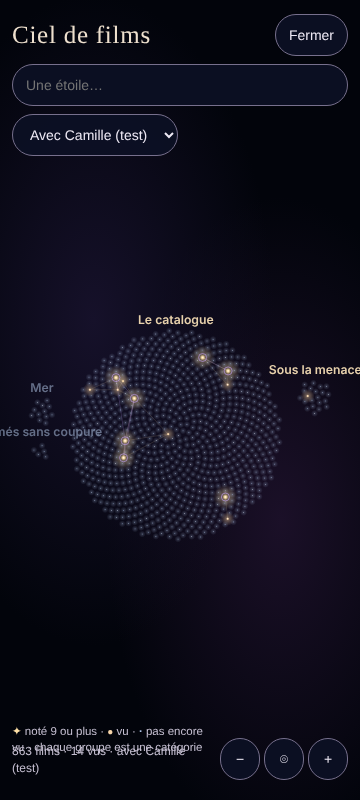
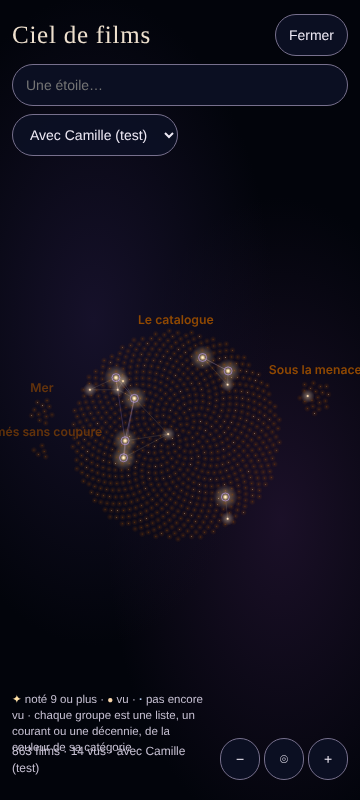
Ciné-club : idées du 22 octobre au soir
- Ciel : plus de « Autres films » (listes, courants, décennies), couleurs
  par catégorie, noms qui ne se chevauchent pas
- Flèches ← → : retour exact à l'endroit de la page (position notée en continu,
  restauration manuelle du défilement)
- Bouton 🎞 des images à côté du titre du film
- Défilement : boutons et panneaux flottants sur leur propre calque, effets
  néon en pause pendant le défilement
- « Mes idées pour le site » : modifier une note, brouillon conservé, panneau
  réductible pour voir le site en écrivant, dictée vocale si le navigateur la
  permet

Claude-Session: https://claude.ai/code/session_01DcDkoDheBLBWj8TP5JACWu

Changed region(s): [[0.0, 0.375, 1.0, 0.6875], [0.0306, 0.8438, 0.5806, 0.9375]]

diff --git a/carnet-de-films/index.html b/carnet-de-films/index.html
@@ -443,6 +443,11 @@ a.shl{text-decoration:none;display:inline-block;}
 .totop{position:fixed;right:10px;bottom:calc(32vh + env(safe-area-inset-bottom,0px));z-index:6;height:44px;border-radius:99px;padding:0 16px;
   border:2px solid var(--k-b-C8963A);background:var(--paper);color:var(--ink);font:600 14.5px/1 var(--font);cursor:pointer;box-shadow:0 3px 14px rgba(44,34,48,.3);}
 .totop[hidden]{display:none;}
+/* Boutons et panneaux flottants sur leur propre calque : ils restent collés à l'écran pendant le défilement. */
+.totop,.navb,.nt-btn,.nt-panel,.envbar,.sheet{transform:translateZ(0);backface-visibility:hidden;will-change:transform;}
+.navb .totop{transform:none;will-change:auto;}
+html.scrolling *,html.scrolling *::before,html.scrolling *::after{animation-play-state:paused!important;}
+html.scrolling .nbulbs i,html.scrolling .nl{transition:none!important;}
 html.qon #main{min-height:calc(100vh - 60px);align-content:start;}
 html.navon .wrap{padding-bottom:64px;}
 .navb{position:fixed;left:10px;bottom:calc(14px + env(safe-area-inset-bottom,0px));z-index:6;display:flex;gap:8px;}
@@ -955,13 +960,24 @@ html.aff-calme .ccg-on{transition:none;}
 .nt-panel{position:fixed;right:10px;left:10px;bottom:12px;max-width:440px;margin-left:auto;max-height:70vh;overflow:auto;z-index:41;display:grid;gap:8px;
   background:var(--paper);color:var(--ink);border:2px solid var(--k-b-C8963A);border-radius:16px;padding:12px 14px;box-shadow:0 8px 30px rgba(44,34,48,.3);}
 .nt-h{display:flex;justify-content:space-between;align-items:center;font-size:16px;}
+#ntPanel{max-height:46vh;}
+#ntPanel.mini{max-height:none;gap:6px;padding:8px 12px;}
+#ntPanel{justify-items:stretch;}
+#ntPanel textarea{width:100%;box-sizing:border-box;}
+.nt-l li .nt-b{margin-top:6px;}
+.nt-ed{display:block!important;}
+.nt-ed textarea{width:100%;box-sizing:border-box;}
+.nt-mic[aria-pressed="true"]{border-color:var(--vu);color:var(--vu);}
 .nt-x{border:0;background:transparent;color:var(--muted);font-size:18px;cursor:pointer;padding:4px 8px;}
 .nt-panel textarea{font:400 16px/1.35 var(--font);color:var(--ink);background:var(--paper);border:1.5px solid var(--line);border-radius:10px;padding:9px 11px;resize:vertical;}
 .nt-b{display:flex;gap:8px;flex-wrap:wrap;}
 .nt-l{margin:0;padding-left:22px;display:grid;gap:6px;font-size:14.5px;}
 .nt-l li span{display:inline;}
 .nt-l small{display:block;color:var(--muted);font-size:12px;}
-.nt-l li{position:relative;padding-right:28px;}
+.nt-l li{position:relative;padding-right:62px;}
+.nt-l li button[data-ntedit]{right:30px;}
+.nt-l li.nt-ed{padding-right:0;}
+.nt-l li.nt-ed button{position:static;font-size:14px;}
 .nt-l li button{position:absolute;right:0;top:0;border:0;background:transparent;color:var(--muted);cursor:pointer;font-size:14px;padding:2px 6px;}
 .nt-clear{justify-self:start;border:1.5px dashed var(--line);background:transparent;color:var(--muted);border-radius:99px;padding:7px 12px;font:600 13px/1 var(--font);cursor:pointer;}
 html.aff-calme .nt-btn{box-shadow:none;}
@@ -1001,6 +1017,8 @@ section[data-auto="classement"] .stars button{transform:scale(.88);}
 .ed-cols button{font-size:13px;padding:0 10px;}
 html.ed-on .wrap{padding-bottom:65vh;}
 .fimg{margin-top:10px;}
+.timg{flex:none;min-width:36px;height:32px;padding:0 8px;border:1.5px solid var(--line);border-radius:99px;background:var(--paper);color:var(--ink);font-size:15px;line-height:1;cursor:pointer;}
+.timg[aria-expanded="true"]{border-color:var(--gold);}
 .fimg-g{display:grid;grid-template-columns:repeat(2,minmax(0,1fr));gap:6px;}
 .fimg-g a{display:block;aspect-ratio:16/9;border-radius:10px;overflow:hidden;background:var(--line);}
 .fimg-g img{width:100%;height:100%;object-fit:cover;display:block;}
@@ -1371,7 +1389,7 @@ html.sky-on #rsheet{z-index:50;}
 <section class="sky" id="sky" role="dialog" aria-modal="true" aria-labelledby="skyTitle" hidden>
   <canvas id="skyCanvas" tabindex="0" role="img" aria-label="Ciel de films. La recherche permet de choisir une étoile ; les flèches déplacent le ciel et les boutons changent le zoom."></canvas>
   <div class="sky-tools"><h2 id="skyTitle">Ciel de films</h2><div class="sky-search"><input type="search" id="skySearch" placeholder="Une étoile…" aria-label="Chercher un film dans le ciel" autocomplete="off" aria-controls="skyResults"><div class="sky-results" id="skyResults" hidden></div></div><select id="skyMember" aria-label="Superposer le ciel d'un membre"><option value="">Mon ciel seul</option></select><button type="button" id="skyClose" aria-label="Fermer le ciel">Fermer</button></div>
-  <div class="sky-caption" id="skyCaption" role="status">Le ciel se dessine…</div><p class="sky-legend"><span class="sl-b">✦</span> noté 9 ou plus · <span class="sl-v">●</span> vu · <span class="sl-p">·</span> pas encore vu · chaque groupe est une catégorie</p><div class="sky-label" id="skyLabel" hidden></div>
+  <div class="sky-caption" id="skyCaption" role="status">Le ciel se dessine…</div><p class="sky-legend"><span class="sl-b">✦</span> noté 9 ou plus · <span class="sl-v">●</span> vu · <span class="sl-p">·</span> pas encore vu · chaque groupe est une liste, un courant ou une décennie, de la couleur de sa catégorie</p><div class="sky-label" id="skyLabel" hidden></div>
   <div class="sky-zoom"><button type="button" id="skyOut" aria-label="Éloigner le ciel">−</button><button type="button" id="skyReset" aria-label="Retrouver tout le ciel">⌾</button><button type="button" id="skyIn" aria-label="Rapprocher le ciel">+</button></div>
 </section>
 <div class="toast" id="toast" role="status" aria-live="polite" hidden></div>
@@ -2716,7 +2734,8 @@ html.sky-on #rsheet{z-index:50;}
     var detailId = "fiche-" + encodeURIComponent(mk), themes = Array.isArray(f.th) ? f.th.filter(Boolean) : [];
     var avertissements = Array.isArray(f.av) ? f.av.filter(Boolean).join(" · ") : String(f.av || "").trim();
     var av = avertissements ? '<details class="fiche-av"><summary>Contenus sensibles</summary><p>' + esc(avertissements) + '</p></details>' : "";
-    return '<div class="info"><div class="th"><div class="t">' + esc(f.t) + '</div>' + est + (ro ? '<span class="ro">' + ro + '</span>' : "") +
+    return '<div class="info"><div class="th"><div class="t">' + esc(f.t) + '</div>' +
+      '<button type="button" class="timg" data-img="' + esc(f.id) + '" aria-expanded="' + !!IMG_OPEN[f.id] + '" aria-label="Images du film ' + esc(f.t) + '" title="Images du film">🎞</button>' + est + (ro ? '<span class="ro">' + ro + '</span>' : "") +
       '<button type="button" class="more" data-more="' + esc(mk) + '" aria-expanded="' + mo + '" aria-controls="' + esc(detailId) + '" aria-label="Détails de ' + esc(f.t) + '">' + (mo ? "moins" : "plus…") + '</button></div>' +
       (!cmp && meta.length ? '<div class="m">' + meta.join(" · ") + '</div>' : "") + (!cmp ? av : "") +
       // Le résumé reste visible sur toutes les fiches ; seule « Mes films notés » le replie derrière « plus… ».
@@ -2731,7 +2750,6 @@ html.sky-on #rsheet{z-index:50;}
       '<div class="nv">' + nv + '</div></div>' +
       '<div class="acts"><button type="button" class="lst" data-l="1" aria-pressed="' + !!LISTE[f.id] + '">' + (LISTE[f.id] ? "✓ Ma liste" : "+ Ma liste") + '</button>' + plb +
       '<button type="button" class="fsh ico" data-fshare="1" aria-label="Partager ' + esc(f.t) + '" title="Partager">↗</button>' +
-      '<button type="button" class="fsh ico" data-img="' + esc(f.id) + '" aria-expanded="' + !!IMG_OPEN[f.id] + '" aria-label="Images du film ' + esc(f.t) + '" title="Images du film">🎞</button>' +
       '<button type="button" class="cmb" data-com="1" aria-expanded="' + (OPEN_COM === f.sid + "|" + f.id) + '" aria-label="Commenter ' + esc(f.t) + '" title="Commenter">💬</button></div></div>' + plc + comForm(f) + (IMG_OPEN[f.id] ? imgBoxHtml(f.id) : "");
   }
 
@@ -3177,6 +3195,24 @@ html.sky-on #rsheet{z-index:50;}
   }
   // Flèches ← → : chaque changement d'affichage (catégorie, liste, recherche, filtre) devient une étape de l'historique.
   var NAV = { i:0, max:0, busy:false, t:0, q:false };
+  try { if ("scrollRestoration" in history) history.scrollRestoration = "manual"; } catch (e) {}
+  // La position dans la page est notée en continu dans l'étape courante : les flèches y ramènent exactement.
+  var NAV_Y = 0;
+  // La position juste avant un toucher ou une frappe : c'est elle qu'on retrouvera, même si l'affichage change ensuite.
+  ["pointerdown", "keydown"].forEach(function(t){ document.addEventListener(t, function(ev){
+    if (NAV.busy || (t === "keydown" && ev.target && /^(INPUT|TEXTAREA|SELECT)$/.test(ev.target.tagName))) return;
+    if (t === "pointerdown" && ev.target && ev.target.closest && ev.target.closest("#navb")) return;
+    NAV.preY = window.pageYOffset; }, true); });
+  window.addEventListener("scroll", function(){ if (NAV.busy) return; clearTimeout(NAV_Y); NAV_Y = setTimeout(function(){
+    var st = history.state; if (!st || !st.cc || NAV.busy) return; try { history.replaceState(Object.assign({}, st, { y:window.pageYOffset }), ""); } catch (e) {} }, 150); }, { passive:true });
+  function navScroll(y){
+    var tries = 0;
+    (function step(){
+      window.scrollTo(0, y); lzFillNow(); window.scrollTo(0, y);
+      if ((Math.abs(window.pageYOffset - y) > 2 || tries < 3) && tries++ < 20) { requestAnimationFrame(step); return; }
+      NAV.busy = false;
+    })();
+  }
   function navNow(){ return { cc:1, show:SHOW ? JSON.parse(JSON.stringify(SHOW)) : null, q:$("q").value, f:filter, tab:TAB }; }
   function navSig(x){ return JSON.stringify([x.show, x.q, x.f, x.tab]); }
   function navPaint(){
@@ -3194,7 +3230,7 @@ html.sky-on #rsheet{z-index:50;}
       // Pendant qu'on tape une recherche, on remplace l'étape au lieu d'en empiler une par lettre.
       if (typing && NAV.q && now - NAV.t < 1500) { st.i = NAV.i; st.max = NAV.max = NAV.i; st.y = cur.y; history.replaceState(st, ""); }
       else {
-        history.replaceState(Object.assign({}, cur, { y:window.pageYOffset }), "");
+        history.replaceState(Object.assign({}, cur, { y:NAV.preY != null ? NAV.preY : (cur.y || 0) }), "");
         st.i = NAV.i = NAV.i + 1; st.max = NAV.max = NAV.i; st.y = 0; history.pushState(st, "");
       }
     } catch (e) {}
@@ -3211,7 +3247,7 @@ html.sky-on #rsheet{z-index:50;}
     document.documentElement.classList.toggle("qon", !!query);
     document.querySelectorAll("#filters .chip").forEach(function(x){ x.setAttribute("aria-pressed", x.dataset.f === filter ? "true" : "false"); });
     renderAll();
-    var y = +st.y || 0; requestAnimationFrame(function(){ window.scrollTo({ top:y }); if (lzFillNow()) window.scrollTo({ top:y }); NAV.busy = false; });
+    clearTimeout(NAV_Y); navScroll(+st.y || 0);
     navPaint();
   });
   $("navBack").addEventListener("click", function(){ if (NAV.i > 0) history.back(); });
@@ -3357,14 +3393,30 @@ html.sky-on #rsheet{z-index:50;}
     var q = $("q") && $("q").value ? " · recherche « " + $("q").value.slice(0, 40) + " »" : "";
     return (TAB ? "onglet " + TAB : "accueil") + q + " · " + amb + " · " + window.innerWidth + " px";
   }
+  // Le panneau reste petit (ou se réduit à une ligne) pour garder le site visible pendant qu'on écrit ; la dictée vocale s'ajoute si le navigateur la connaît.
+  var NT_DRAFT = "", NT_EDIT = -1, NT_MINI = false, NT_REC = null, SR = window.SpeechRecognition || window.webkitSpeechRecognition;
   function notesHtml(){
-    return '<div class="nt-h"><b>Mes idées pour le site</b><button type="button" class="nt-x" data-ntclose="1" aria-label="Fermer">✕</button></div>' +
-      '<textarea id="ntTxt" rows="3" maxlength="1000" placeholder="Une idée, un défaut, une envie…"></textarea>' +
-      '<div class="nt-b"><button type="button" class="plf-ok" data-ntadd="1">Noter</button>' +
-      '<button type="button" class="plf-no" data-ntcopy="1">📋 Tout copier</button></div>' +
-      (NOTES.length ? '<ol class="nt-l">' + NOTES.map(function(n, i){
-        return '<li><span>' + esc(n.t) + '<small>' + esc(fdate(n.d) || "") + ' · ' + esc(n.w || "") + '</small></span><button type="button" data-ntdel="' + i + '" aria-label="Effacer cette note">✕</button></li>';
+    var mic = SR ? '<button type="button" class="plf-no nt-mic" data-ntmic="1" aria-pressed="' + !!NT_REC + '">' + (NT_REC ? "⏹ Arrêter la dictée" : "🎤 Dicter") + '</button>' : "";
+    return '<div class="nt-h"><b>Mes idées pour le site</b><span><button type="button" class="nt-x" data-ntmini="1" aria-label="' + (NT_MINI ? "Agrandir" : "Réduire") + '" title="' + (NT_MINI ? "Agrandir" : "Réduire") + '">' + (NT_MINI ? "▴" : "▾") + '</button><button type="button" class="nt-x" data-ntclose="1" aria-label="Fermer">✕</button></span></div>' +
+      '<textarea id="ntTxt" rows="' + (NT_MINI ? 2 : 3) + '" maxlength="1000" placeholder="Une idée, un défaut, une envie…">' + esc(NT_DRAFT) + '</textarea>' +
+      '<div class="nt-b"><button type="button" class="plf-ok" data-ntadd="1">Noter</button>' + mic +
+      (NT_MINI ? "" : '<button type="button" class="plf-no" data-ntcopy="1">📋 Tout copier</button>') + '</div>' +
+      (NT_MINI ? "" : NOTES.length ? '<ol class="nt-l">' + NOTES.map(function(n, i){
+        if (i === NT_EDIT) return '<li class="nt-ed"><textarea id="ntEd" rows="3" maxlength="1000" aria-label="Modifier cette note">' + esc(n.t) + '</textarea><span class="nt-b"><button type="button" class="plf-ok" data-ntsave="' + i + '">Enregistrer</button><button type="button" class="plf-no" data-ntcancel="1">Annuler</button></span></li>';
+        return '<li><span>' + esc(n.t) + '<small>' + esc(fdate(n.d) || "") + ' · ' + esc(n.w || "") + '</small></span><button type="button" data-ntedit="' + i + '" aria-label="Modifier cette note">✎</button><button type="button" data-ntdel="' + i + '" aria-label="Effacer cette note">✕</button></li>';
       }).join("") + '</ol><button type="button" class="nt-clear" data-ntclear="1">Tout effacer (après l\'envoi à Claude)</button>' : '<p class="id-n">Rien de noté pour l\'instant.</p>');
+  }
+  function ntPaint(focus){ var p = $("ntPanel"); if (!p) return; p.classList.toggle("mini", NT_MINI); p.innerHTML = notesHtml(); var ta = $(focus || "ntTxt"); if (ta && focus !== false) { ta.focus({ preventScroll:true }); try { ta.setSelectionRange(ta.value.length, ta.value.length); } catch (e) {} } }
+  function ntMicStop(){ if (NT_REC) { try { NT_REC.stop(); } catch (e) {} NT_REC = null; } }
+  function ntMic(){
+    if (NT_REC) { ntMicStop(); ntPaint(); return; }
+    var r = new SR(), base = NT_DRAFT ? NT_DRAFT.replace(/\s*$/, " ") : "";
+    r.lang = "fr-FR"; r.continuous = true; r.interimResults = true;
+    r.onresult = function(e){ var txt = ""; for (var i = 0; i < e.results.length; i++) txt += e.results[i][0].transcript; NT_DRAFT = (base + txt).slice(0, 1000); var ta = $("ntTxt"); if (ta) ta.value = NT_DRAFT; };
+    r.onend = function(){ if (NT_REC === r) { NT_REC = null; ntPaint(false); } };
+    r.onerror = function(){ if (NT_REC === r) { NT_REC = null; ntPaint(false); setStatus("La dictée n'a pas pu démarrer : utilise le micro du clavier.", true); } };
+    try { r.start(); NT_REC = r; } catch (e) { NT_REC = null; }
+    ntPaint(false);
   }
   function notesSync(){
     var b = $("ntBtn"), on = !!(window.CC && CC.admin);
@@ -3379,25 +3431,32 @@ html.sky-on #rsheet{z-index:50;}
   document.addEventListener("click", function(ev){
     var t = ev.target; if (!t.closest) return;
     var p = $("ntPanel");
-    if (t.closest("#ntBtn")) { if (p.hidden) { NT_CLEAR = false; p.innerHTML = notesHtml(); p.hidden = false; var ta = $("ntTxt"); if (ta) ta.focus(); } else p.hidden = true; return; }
+    if (t.closest("#ntBtn")) { if (p.hidden) { NT_CLEAR = false; NT_EDIT = -1; p.hidden = false; ntPaint(); } else { ntMicStop(); p.hidden = true; } return; }
     if (!t.closest("#ntPanel")) return;
-    if (t.closest("[data-ntclose]")) { p.hidden = true; return; }
+    if (t.closest("[data-ntclose]")) { ntMicStop(); p.hidden = true; return; }
+    if (t.closest("[data-ntmini]")) { NT_MINI = !NT_MINI; ntPaint(false); return; }
+    if (t.closest("[data-ntmic]")) { ntMic(); return; }
     if (t.closest("[data-ntadd]")) {
+      ntMicStop();
       var v = ($("ntTxt").value || "").trim(); if (!v) { $("ntTxt").focus(); return; }
-      NOTES.push({ t:v.slice(0, 1000), d:new Date().toISOString(), w:notesWhere() }); keepNotes(); p.innerHTML = notesHtml(); $("ntTxt").focus(); return;
+      NOTES.push({ t:v.slice(0, 1000), d:new Date().toISOString(), w:notesWhere() }); keepNotes(); NT_DRAFT = ""; ntPaint(); return;
     }
-    var dl = t.closest("[data-ntdel]"); if (dl) { NOTES.splice(+dl.dataset.ntdel, 1); keepNotes(); p.innerHTML = notesHtml(); return; }
+    var ne = t.closest("[data-ntedit]"); if (ne) { NT_EDIT = +ne.dataset.ntedit; ntPaint("ntEd"); return; }
+    if (t.closest("[data-ntcancel]")) { NT_EDIT = -1; ntPaint(false); return; }
+    var ns = t.closest("[data-ntsave]"); if (ns) { var i0 = +ns.dataset.ntsave, v0 = (($("ntEd") || {}).value || "").trim(); if (NOTES[i0] && v0) { NOTES[i0].t = v0.slice(0, 1000); keepNotes(); } NT_EDIT = -1; ntPaint(false); return; }
+    var dl = t.closest("[data-ntdel]"); if (dl) { NOTES.splice(+dl.dataset.ntdel, 1); keepNotes(); NT_EDIT = -1; ntPaint(false); return; }
     if (t.closest("[data-ntclear]")) {
       if (!NT_CLEAR) { NT_CLEAR = true; t.closest("[data-ntclear]").textContent = "Vraiment tout effacer ?"; return; }
-      NOTES = []; keepNotes(); NT_CLEAR = false; p.innerHTML = notesHtml(); return;
+      NOTES = []; keepNotes(); NT_CLEAR = false; ntPaint(false); return;
     }
     if (t.closest("[data-ntcopy]")) {
       var mine = NOTES.length ? "Mes idées pour le Ciné-club (" + NOTES.length + ")\n" + NOTES.map(function(n, i){ return (i + 1) + ". " + n.t + " (" + (fdate(n.d) || "") + " · " + n.w + ")"; }).join("\n") : "";
       copyText([mine, idTodo()].filter(Boolean).join("\n\n"), "vos notes et les suggestions des membres", t.closest("[data-ntcopy]"));
     }
   });
+  document.addEventListener("input", function(ev){ if (ev.target && ev.target.id === "ntTxt") NT_DRAFT = ev.target.value; });
   document.addEventListener("keydown", function(ev){
-    if (ev.key === "Escape") { var p = $("ntPanel"); if (p && !p.hidden) p.hidden = true; }
+    if (ev.key === "Escape") { var p = $("ntPanel"); if (p && !p.hidden) { ntMicStop(); p.hidden = true; } }
     if (ev.key === "Enter" && (ev.ctrlKey || ev.metaKey) && ev.target.id === "ntTxt") { var a = document.querySelector("[data-ntadd]"); if (a) a.click(); }
   });
   var QZ_Q = [
@@ -5180,7 +5239,9 @@ html.sky-on #rsheet{z-index:50;}
     renderAll(); $("q").blur(); toList();
   });
   $("q").addEventListener("input", function(){ clearTimeout(qTimer); qTimer = setTimeout(function(){ query = norm($("q").value.trim()); document.documentElement.classList.toggle("qon", !!query || document.activeElement === $("q")); renderAll(); if (query) qTop(); else toList(); }, 150); });
-  var ticking = false;
+  var ticking = false, SCR_T = 0;
+  // Pendant le défilement, les effets décoratifs se mettent en pause : le navigateur garde toute sa force pour suivre le doigt.
+  window.addEventListener("scroll", function(){ var de = document.documentElement; if (!de.classList.contains("scrolling")) de.classList.add("scrolling"); clearTimeout(SCR_T); SCR_T = setTimeout(function(){ de.classList.remove("scrolling"); }, 220); }, { passive:true });
   window.addEventListener("scroll", function(){
     if (ticking) return; ticking = true;
     requestAnimationFrame(function(){ $("totop").hidden = window.pageYOffset < 400; ticking = false; });
@@ -5464,10 +5525,26 @@ html.sky-on #rsheet{z-index:50;}
   function skyHash(s){ var h=2166136261; for(var i=0;i<s.length;i++) h=Math.imul(h^s.charCodeAt(i),16777619); return h>>>0; }
   function skyNorm(v){ var q=Math.sqrt(v.reduce(function(s,x){return s+x*x;},0))||1; return v.map(function(x){return x/q;}); }
   // Constellations : chaque liste de thèmes devient un groupe d'étoiles qui porte son nom ; un film va dans la liste la plus précise qui le contient.
+  // Constellations : d'abord les listes de thèmes, puis les autres listes (école, cours, envies…), puis le courant, et enfin la décennie : aucun film ne reste à part.
   function skyGroups(){
-    var lists=sections.filter(function(s){return s.famille==="themes"&&!s.cache&&!s.auto&&(s.films||[]).length;}).map(function(s){return {id:s.id,name:sTitre(s)||s.titre||"",ids:(s.films||[]).map(function(f){return f.id;})};});
-    var of={};lists.slice().sort(function(a,b){return a.ids.length-b.ids.length||(a.id<b.id?-1:1);}).forEach(function(g){g.ids.forEach(function(id){if(!of[id]&&films[id])of[id]=g.id;});});
-    return {lists:lists,of:of};
+    var skip={carnet:1,playlists:1,epoques:1,idees:1};
+    var lists=sections.filter(function(s){return !s.cache&&!s.auto&&!s._sugg&&!skip[s.famille]&&(s.films||[]).length;}).map(function(s){return {id:s.id,name:sTitre(s)||s.titre||"",fam:s.famille||"",pri:s.famille==="themes"?0:1,ids:(s.films||[]).map(function(f){return f.id;})};});
+    var of={};lists.slice().sort(function(a,b){return a.pri-b.pri||a.ids.length-b.ids.length||(a.id<b.id?-1:1);}).forEach(function(g){g.ids.forEach(function(id){if(!of[id]&&films[id])of[id]=g.id;});});
+    var extra={};
+    Object.keys(films).forEach(function(id){
+      if(of[id])return;var f=films[id],k;
+      if(f.mv&&MV_INFO[f.mv]){k="mv:"+f.mv;if(!extra[k])extra[k]={id:k,name:MV_INFO[f.mv].label,fam:"mouvements",ids:[]};}
+      else{var d=f.y?Math.floor(+f.y/10)*10:0;k="dec:"+(d||"x");if(!extra[k])extra[k]={id:k,name:d?(d>=2000?"Années "+d:"Années "+String(d).slice(2)):"Sans date",fam:"epoques",ids:[]};}
+      extra[k].ids.push(id);of[id]=k;
+    });
+    // Un courant trop petit rejoint sa décennie : pas de poussière isolée.
+    Object.keys(extra).forEach(function(k){var g=extra[k];if(k.indexOf("mv:")!==0||g.ids.length>=4)return;g.ids.forEach(function(id){var f=films[id],d=f.y?Math.floor(+f.y/10)*10:0,k2="dec:"+(d||"x");if(!extra[k2])extra[k2]={id:k2,name:d?(d>=2000?"Années "+d:"Années "+String(d).slice(2)):"Sans date",fam:"epoques",ids:[]};extra[k2].ids.push(id);of[id]=k2;});delete extra[k];});
+    return {lists:lists.concat(Object.keys(extra).map(function(k){return extra[k];})),of:of};
+  }
+  function skyColor(fam){
+    var f=FAM_OF[fam]||{id:fam},p=(typeof famPal==="function"&&famPal(f))||null,c=(p&&(p.ic||p.bord))||f.bord||"";
+    var dflt={themes:"#f3dcb4",mouvements:"#9fe0d2",epoques:"#a9c4ff",ecole:"#f5b8d0",cours:"#c7b3ff",envies:"#ffc28a",sante:"#b8e3a1"};
+    return /^#[0-9a-f]{6}$/i.test(c)?c:dflt[fam]||"#d9cbe6";
   }
   function skyModel(){
     var ids=Object.keys(films).sort(),G=skyGroups(),signature=ids.map(function(id){return id+"|"+(G.of[id]||"");}).join(";")+"#"+G.lists.map(function(g){return g.id+":"+g.name;}).join(",");
@@ -5475,7 +5552,7 @@ html.sky-on #rsheet{z-index:50;}
     SKY.sig=signature; ++SKY.gen; var n=ids.length;
     if(!n){ SKY.points=[]; SKY.groups=[]; skySchedule(); return; }
     var byG={},order=[];ids.forEach(function(id){var g=G.of[id]||"_";if(!byG[g]){byG[g]=[];order.push(g);}byG[g].push(id);});
-    var names={};G.lists.forEach(function(g){names[g.id]=g.name;});names._="Autres films";
+    var names={},fams={};G.lists.forEach(function(g){names[g.id]=g.name;fams[g.id]=g.fam;});names._="Autres films";
     // Les plus grandes constellations au centre, les autres en spirale autour ; les films d'un groupe en tournesol.
     order.sort(function(a,b){return (a==="_")-(b==="_")||byG[b].length-byG[a].length||(a<b?-1:1);});
     var points=[],groups=[],GA=Math.PI*(3-Math.sqrt(5)),placed=[];
@@ -5485,9 +5562,9 @@ html.sky-on #rsheet{z-index:50;}
       for(var t=0;k&&t<4000;t++){var ang=t*.37,R=t*6;cx=Math.cos(ang)*R;cy=Math.sin(ang)*R*.8;if(placed.every(function(q){return Math.hypot(q.x-cx,q.y-cy)>=q.r+r+55;}))break;}
       placed.push({x:cx,y:cy,r:r});
       list.forEach(function(id,i){var d=Math.sqrt(i+.5)*15,a=i*GA;points.push({id:id,g:g,x:cx+Math.cos(a)*d,y:cy+Math.sin(a)*d,links:[]});});
-      groups.push({id:g,name:names[g]||"",x:cx,y:cy-r-8,n:list.length});
+      groups.push({id:g,name:names[g]||"",fam:fams[g]||"",color:skyColor(fams[g]||""),x:cx,y:cy-r-8,n:list.length});
     });
-    SKY.points=points;SKY.groups=groups;SKY.byId={};SKY.grid={};points.forEach(function(p){SKY.byId[p.id]=p;var key=Math.floor(p.x/64)+","+Math.floor(p.y/64);(SKY.grid[key]=SKY.grid[key]||[]).push(p);});
+    SKY.points=points;SKY.groups=groups;SKY.gcol={};groups.forEach(function(g){SKY.gcol[g.id]=g.color;});SKY.byId={};SKY.grid={};points.forEach(function(p){SKY.byId[p.id]=p;var key=Math.floor(p.x/64)+","+Math.floor(p.y/64);(SKY.grid[key]=SKY.grid[key]||[]).push(p);});
     var minX=Infinity,maxX=-Infinity,minY=Infinity,maxY=-Infinity;points.forEach(function(p){minX=Math.min(minX,p.x);maxX=Math.max(maxX,p.x);minY=Math.min(minY,p.y);maxY=Math.max(maxY,p.y);});
     SKY.box={x:(minX+maxX)/2,y:(minY+maxY)/2,w:maxX-minX+260,h:maxY-minY+180};
     SKY.ready=true;skyCanvas.dataset.count=String(n);skyCanvas.dataset.layout=String(skyHash(points.map(function(p){return p.id+":"+p.x.toFixed(3)+","+p.y.toFixed(3);}).join(";")));SKY.threads={};skyFit();skySchedule();
@@ -5522,12 +5599,15 @@ html.sky-on #rsheet{z-index:50;}
     SKY.points.forEach(function(p,i){
       var a=answers[p.id]||{},lit=isSeen(a.etat),brilliant=lit&&+a.note10>=9,s=positions[i];if(s.x<-30||s.x>SKY.w+30||s.y<-30||s.y>SKY.h+30)return;
       if(lit)seen++;
-      var size=brilliant?25:lit?14:7,color=brilliant?"#ffe1a7":lit?"#f7d5aa":"#abc1e3";c.globalAlpha=lit?1:.56;c.drawImage(skySprite(color),s.x-size/2,s.y-size/2,size,size);
+      var size=brilliant?25:lit?14:7,color=brilliant?"#ffe1a7":lit?"#f7d5aa":((SKY.gcol||{})[p.g]||"#abc1e3");c.globalAlpha=lit?1:.56;c.drawImage(skySprite(color),s.x-size/2,s.y-size/2,size,size);
       if(other&&isSeen((peer[p.id]||{}).etat)){c.globalAlpha=.85;c.strokeStyle="#c7a4ff";c.lineWidth=.7;c.beginPath();c.arc(s.x,s.y,brilliant?4:2.5,0,Math.PI*2);c.stroke();}
     });
     c.globalAlpha=1;c.textAlign="center";c.textBaseline="bottom";
-    (SKY.groups||[]).forEach(function(g){if(!g.name)return;var s=skyScreen(g),lit=SKY.points.some(function(p){return p.g===g.id&&isSeen((answers[p.id]||{}).etat);});if(s.x<-160||s.x>SKY.w+160||s.y<-40||s.y>SKY.h+60)return;
-      var fs=Math.max(11,Math.min(16,11+SKY.cam.z*5));c.font="600 "+fs+"px system-ui,sans-serif";c.fillStyle=lit?"#f3dcb4":"#9fb0cf";c.globalAlpha=lit?.95:.6;c.fillText(g.name,s.x,s.y);});
+    // Les noms ne se chevauchent jamais : les plus grandes constellations d'abord ; les autres apparaissent en rapprochant le ciel.
+    var boxes=[],fs=Math.max(11,Math.min(16,11+SKY.cam.z*5));c.font="600 "+fs+"px system-ui,sans-serif";
+    (SKY.groups||[]).slice().sort(function(a,b){return b.n-a.n;}).forEach(function(g){if(!g.name)return;var s=skyScreen(g);if(s.x<-160||s.x>SKY.w+160||s.y<-40||s.y>SKY.h+60)return;
+      var w=c.measureText(g.name).width,bx={l:s.x-w/2-4,r:s.x+w/2+4,t:s.y-fs-3,b:s.y+3};if(boxes.some(function(o){return bx.l<o.r&&bx.r>o.l&&bx.t<o.b&&bx.b>o.t;}))return;boxes.push(bx);
+      var lit=SKY.points.some(function(p){return p.g===g.id&&isSeen((answers[p.id]||{}).etat);});c.fillStyle=g.color||"#f3dcb4";c.globalAlpha=lit?.95:.62;c.fillText(g.name,s.x,s.y);});
     c.globalAlpha=1;$("skyCaption").textContent=SKY.points.length+" films · "+Object.keys(answers).filter(function(id){return SKY.byId[id]&&isSeen((answers[id]||{}).etat);}).length+" vus"+(other?" · avec "+other.pseudo:"");
     skyCanvas.dataset.renderMs=(performance.now()-started).toFixed(2);
   }
@@ -6141,7 +6221,7 @@ html.sky-on #rsheet{z-index:50;}
 // Néon : pannes d'ampoules et de lettres, halos qui s'allument au hasard sur quelques boutons. Rien de régulier.
 (function(){
   var de = document.documentElement;
-  function on(){ return de.classList.contains("th-neon") && !de.classList.contains("aff-calme") && !document.hidden; }
+  function on(){ return de.classList.contains("th-neon") && !de.classList.contains("aff-calme") && !de.classList.contains("scrolling") && !document.hidden; }
   function R(a, b){ return a + Math.random() * (b - a); }
   function pick(a){ return a[Math.floor(Math.random() * a.length)]; }
   function later(f, a, b, c, d, e, g){ var x = Math.random(); setTimeout(f, x < .15 ? R(a, b) : x < .75 ? R(c, d) : R(e, g)); }

diff --git a/tests/cineclub_idees.py b/tests/cineclub_idees.py
@@ -134,6 +134,7 @@ def run():
             page.locator("#q").fill("Shining")
             card = '#main .film[data-id="shining-1980"]'
             page.locator(card).first.wait_for()
+            assert page.locator(card + " .th [data-img]").count() >= 1, "le bouton des images est à côté du titre"
             page.locator(card + " [data-img]").first.click()
             page.wait_for_function("s => document.querySelectorAll(s + ' .fimg img').length === 4", arg=card)
             assert page.locator(card + " .fimg-s").first.inner_text() == "Images : TMDB"
@@ -141,6 +142,36 @@ def run():
             page.wait_for_timeout(300)
             assert page.locator(card + " .fimg img").count() == 4
             page.locator("#qx").click()
+
+            # Flèche ← : retour exact à l'endroit de la page où l'on était.
+            page.locator('#toc [data-tile="themes"]').click()
+            page.locator("#toc .sub").first.click()
+            page.wait_for_timeout(300)
+            page.mouse.wheel(0, 2500)
+            page.wait_for_timeout(400)
+            more = page.evaluate("Array.from(document.querySelectorAll('#main .more')).findIndex(b => { const r = b.getBoundingClientRect(); return r.top > 80 && r.bottom < innerHeight - 260; })")
+            page.locator("#main .more").nth(more).click()
+            idx = page.evaluate("Array.from(document.querySelectorAll('#main .mvb')).findIndex(b => { const r = b.getBoundingClientRect(); return r.top > 40 && r.bottom < innerHeight - 40; })")
+            before = page.evaluate("pageYOffset")
+            page.locator("#main .mvb").nth(idx).click()
+            page.wait_for_timeout(400)
+            page.locator("#navBack").click()
+            page.wait_for_function("y => Math.abs(pageYOffset - y) <= 2", arg=before)
+
+            # Mes idées pour le site (administratrice) : une note se modifie, le brouillon reste.
+            if admin:
+                page.locator("#ntBtn").click()
+                page.locator("#ntTxt").fill("Première idée")
+                page.locator("[data-ntadd]").click()
+                page.locator("#ntTxt").fill("Brouillon en cours")
+                page.locator("[data-ntedit]").first.click()
+                page.locator("#ntEd").fill("Idée corrigée")
+                page.locator("[data-ntsave]").click()
+                assert "Idée corrigée" in page.locator(".nt-l").inner_text()
+                assert page.locator("#ntTxt").input_value() == "Brouillon en cours"
+                page.locator("[data-ntmini]").click()
+                assert page.locator("#ntPanel.mini").is_visible() and page.locator(".nt-l").count() == 0
+                page.locator("[data-ntclose]").click()
 
             # Mode édition : réservé à l'administratrice ; disposition, texte et couleur enregistrés ensemble.
             page.locator("#aab").click()
@@ -162,7 +193,7 @@ def run():
                 assert page.locator("#skyToggle").inner_text() == "✦ Mes étoiles"
 
             assert not errors and not unexpected, (errors, unexpected)
-            print(f"{who} : dé et recherche, recherche en haut, apostrophe, avis à son nom, conseil à tous, flèches, résumé, Boussole, idées, images, mode édition et console : OK", flush=True)
+            print(f"{who} : dé et recherche, recherche en haut, apostrophe, avis à son nom, conseil à tous, flèches, résumé, Boussole, idées, images, retour exact, notes, mode édition et console : OK", flush=True)
             context.close()
         browser.close()
 

diff --git a/docs/CIEL.md b/docs/CIEL.md
@@ -54,3 +54,11 @@ le contient, les autres films forment « Autres films ». Les constellations se 
 une spirale sans se chevaucher. Une légende d'une ligne explique les trois tailles d'étoile.
 Les fils relient seulement les films vus d'une même constellation. Les positions ne
 dépendent toujours ni des notes ni du membre superposé.
+
+## Toutes les étoiles rangées (22 octobre 2026, soir)
+
+Il n'y a plus de groupe « Autres films » : après les listes de thèmes viennent les autres
+listes (école, cours, envies…), puis le courant du film, puis sa décennie ; un courant de
+moins de quatre films rejoint sa décennie. Chaque constellation prend la couleur de sa
+catégorie, ses étoiles pas encore vues aussi. Les noms ne se chevauchent jamais : les plus
+grandes constellations sont nommées d'abord, les autres en rapprochant le ciel.
